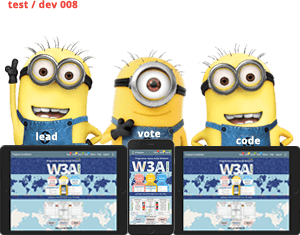
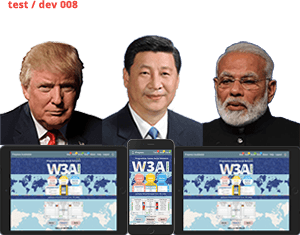
added top leaders pics for wall street theme

diff --git a/src/app/navigation/header/header.component.ts b/src/app/navigation/header/header.component.ts
@@ -16,7 +16,7 @@ import { SetupService } from '../../setup.service';
 export class HeaderComponent implements OnInit {
   @Output() sidenavToggle = new EventEmitter<void>();
   isAuth$: Observable<boolean>;
-  appTitle = 'walls street';
+  appTitle = 'wall street';
 
   constructor(private store: Store<fromRoot.State>, 
               private authService: AuthService,

diff --git a/src/app/navigation/header/header.component.html b/src/app/navigation/header/header.component.html
@@ -10,7 +10,7 @@
 <section class="toolbar-text" fxFlex>
 
     <div fxFlex fxLayout fxLayoutAlign="flex-start" fxHide.gt-sm>
-        <a routerLink="/">walls</a>
+        <a routerLink="/">wall st</a>
     </div>
 
     <div xFlex fxLayout fxLayoutAlign="flex-start" fxHide.lt-md>

diff --git a/src/app/welcome/welcome.component.html b/src/app/welcome/welcome.component.html
@@ -4,7 +4,7 @@
 
   <div class="mission">
     <h4 id="leaders">
-      f a s t &nbsp; &nbsp; &nbsp; &nbsp; a n d &nbsp; &nbsp; &nbsp; &nbsp; f a i r
+      w o r l d &nbsp; e l e c t i o n s &nbsp; 2 0 2 0
       </h4>
   </div>
 

diff --git a/src/index.html b/src/index.html
@@ -2,7 +2,7 @@
 <html lang="en">
 <head>
   <meta charset="utf-8">
-  <title>walls street</title>
+  <title>wall street OS</title>
   <base href="/">
 
   <meta name="viewport" content="width=device-width, initial-scale=1">
